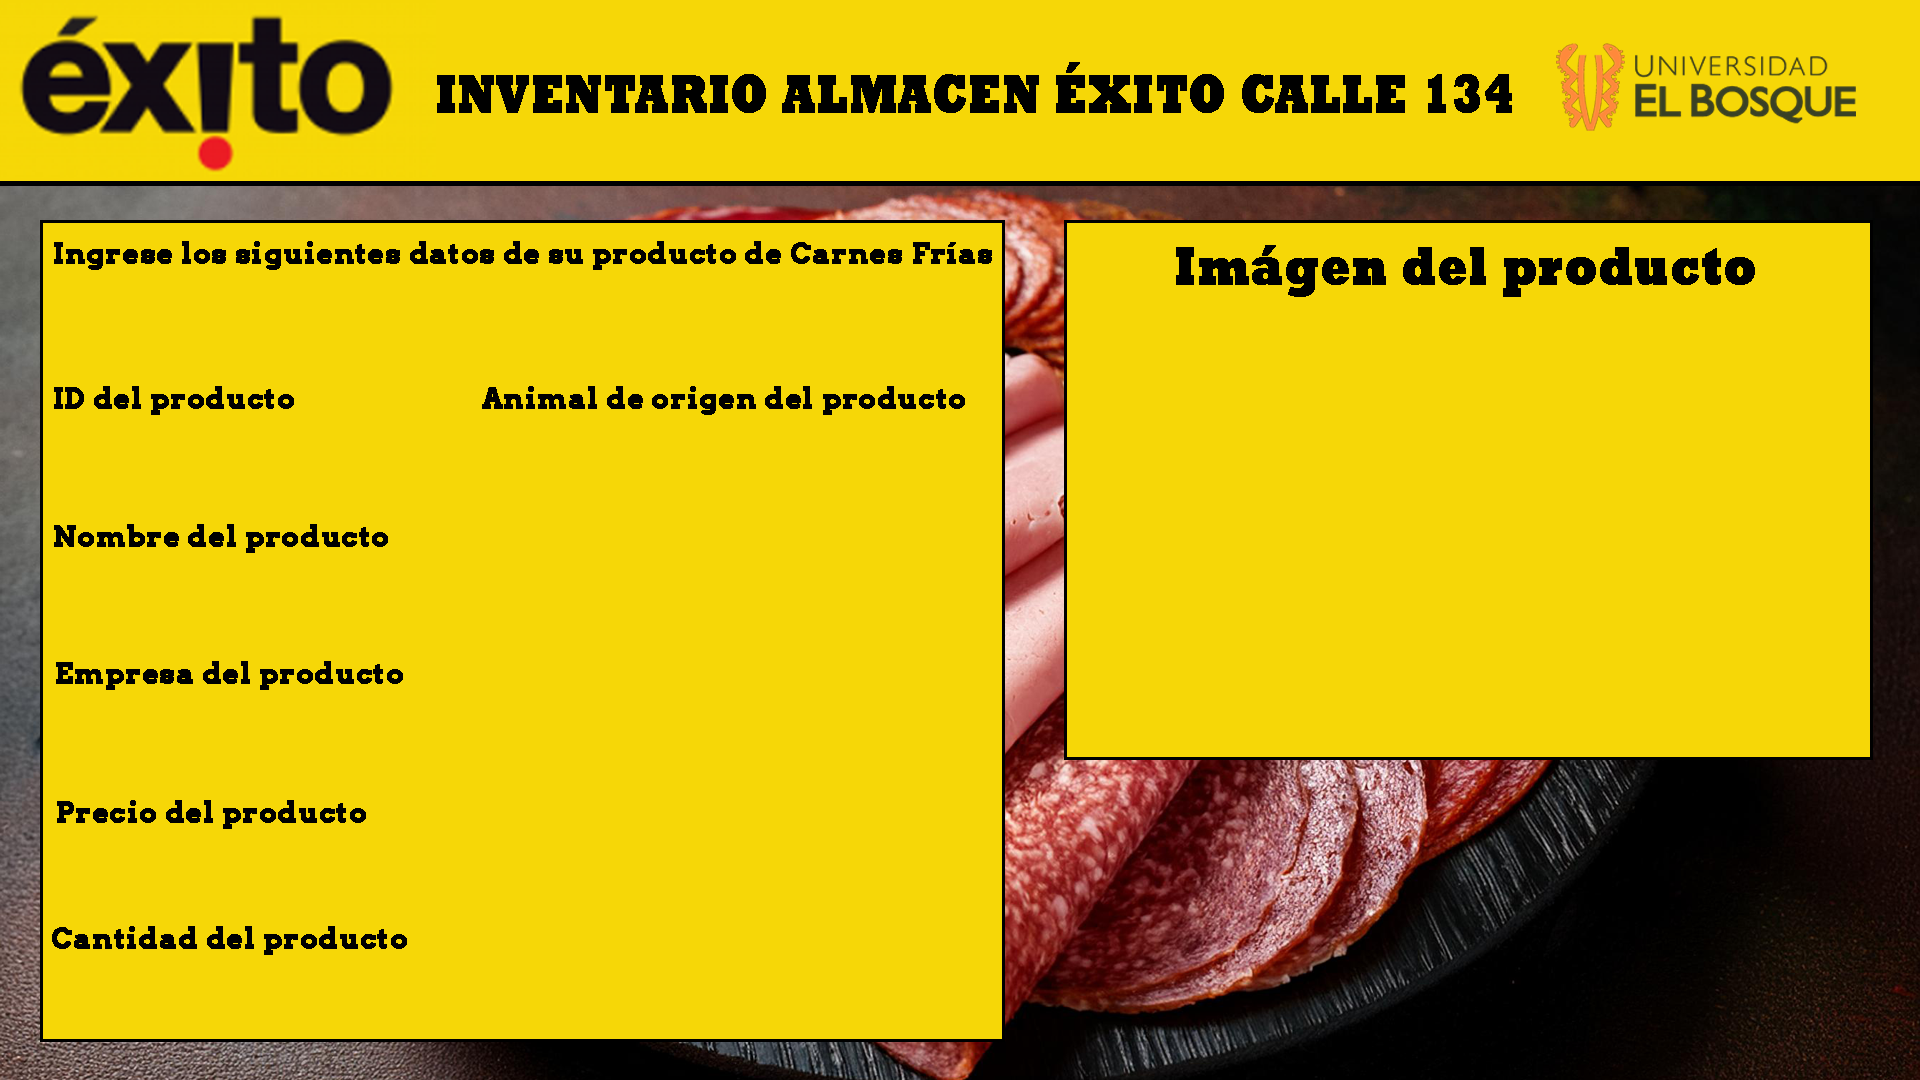
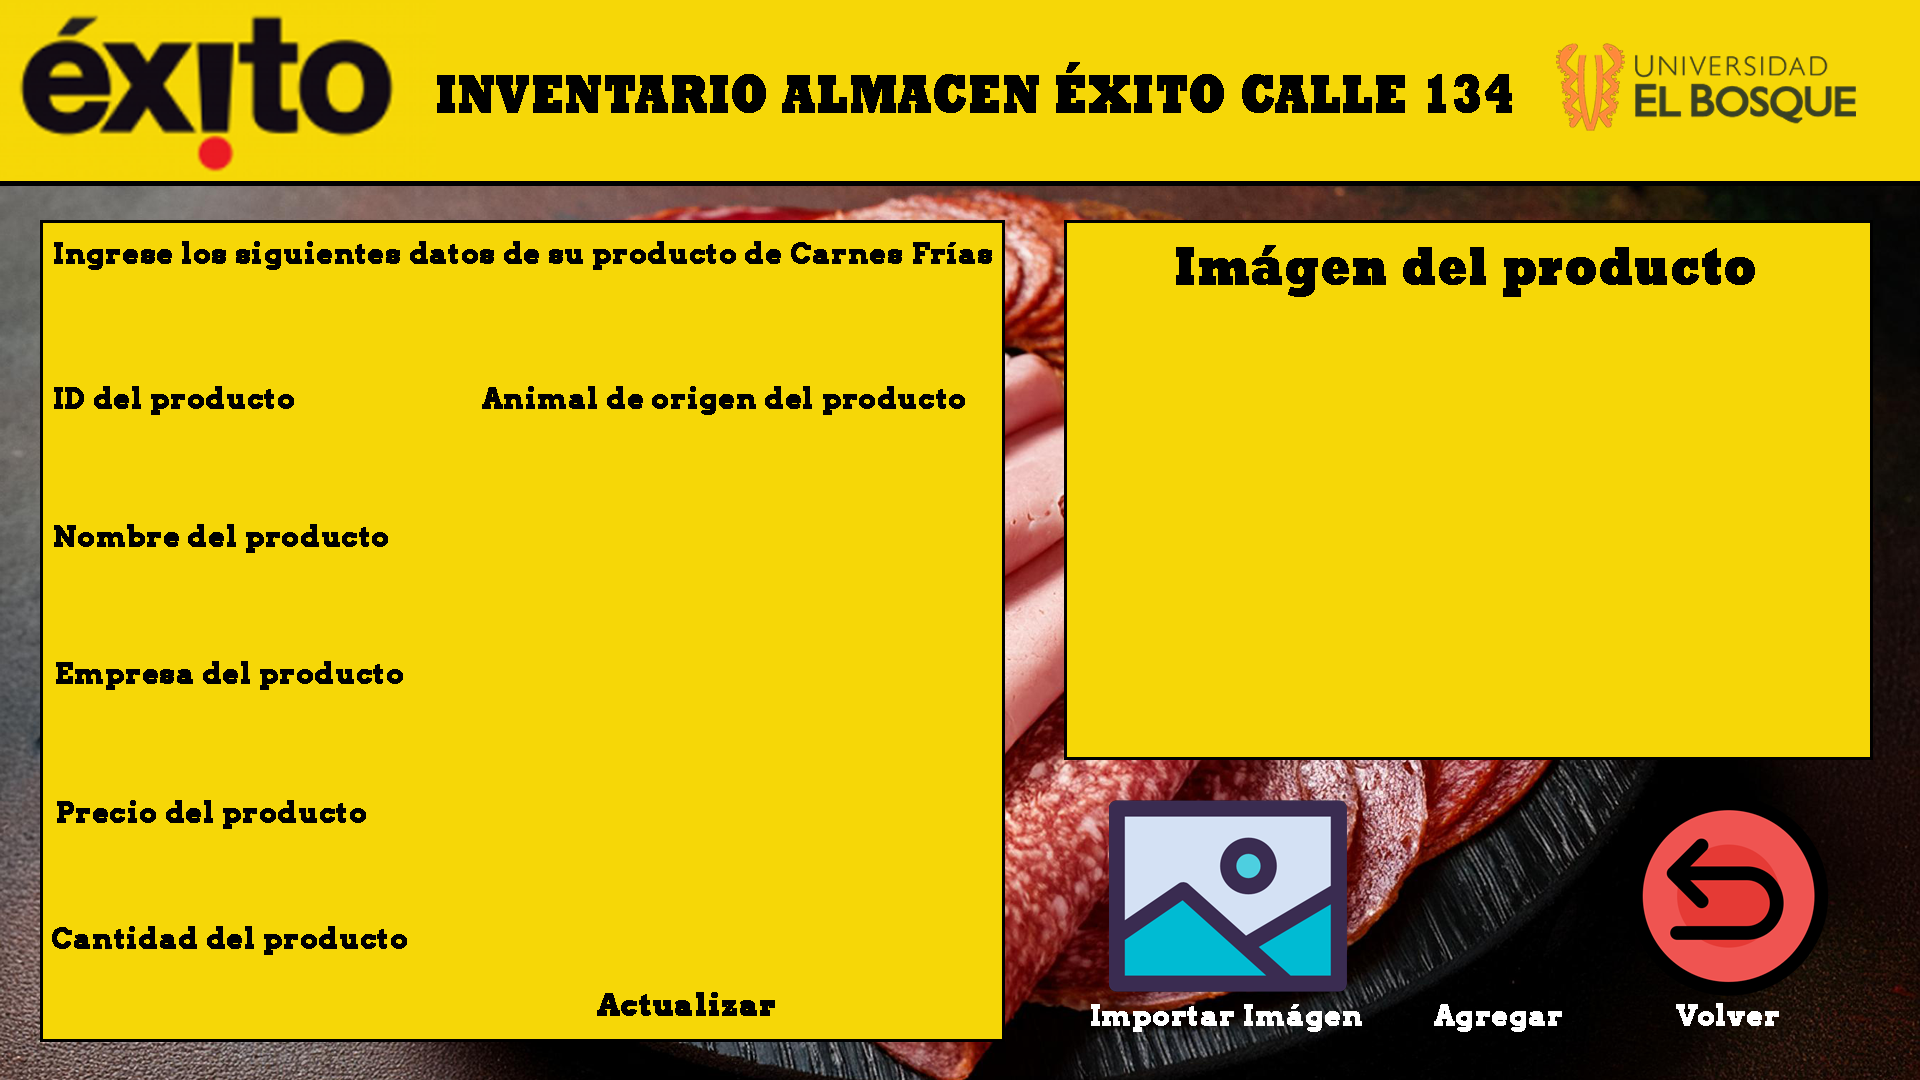
Nuevos menús, boton3es ag, imp, volv

diff --git a/Proyecto_Programacion_1/src/co/edu/unbosque/view/PanelEntrada.java b/Proyecto_Programacion_1/src/co/edu/unbosque/view/PanelEntrada.java
@@ -11,7 +11,7 @@ import javax.swing.JTextField;
 import javax.swing.border.Border;
 
 public class PanelEntrada extends JPanel {
-	JLabel imagenBackground, imagenProducto, imagenAgregarC, exportar, imagenAgregarV, imagenAgregarJ, imagenAgregarP;
+	JLabel imagenBackground, imagenProducto, imagenAgregarC, imagenAgregarV, imagenAgregarJ, imagenAgregarP;
 	JTextField numId, nombre, empresa, precio, cantidad, atributoPropio1, atributoPropio2, atributoPropio3;
 	JButton btnVolver, btnAgregar, btnJFileChooser;
 
@@ -56,37 +56,26 @@ public class PanelEntrada extends JPanel {
 		atributoPropio3.setOpaque(true);
 
 		btnVolver = new JButton("Volver");
-		btnVolver.setBounds(1095, 515, 150, 150);
+		btnVolver.setBounds(1080, 515, 138, 130);
 		btnVolver.setOpaque(true);
 		btnVolver.setActionCommand("VOLVERDEADD");
 		btnVolver.setBackground(new Color(255, 217, 47));
 		btnVolver.setBorder(border);
-		btnVolver.setVerticalTextPosition(JButton.BOTTOM);
 
 		btnAgregar = new JButton("Agregar");
-		btnAgregar.setBounds(900, 515, 150, 150);
+		btnAgregar.setBounds(930, 515, 130, 130);
 		btnAgregar.setOpaque(true);
 		btnAgregar.setActionCommand("AGREGARPRODUCTO");
 		btnAgregar.setBackground(new Color(255, 217, 47));
 		btnAgregar.setBorder(border);
-		btnAgregar.setVerticalTextPosition(JButton.BOTTOM);
 		
 		btnJFileChooser = new JButton("Importar imágen");
-		btnJFileChooser.setBounds(710, 515, 150, 150);
+		btnJFileChooser.setBounds(720, 510, 190, 135);
 		btnJFileChooser.setVisible(true);
 		btnJFileChooser.setActionCommand("IMAGEN");
 		btnJFileChooser.setBackground(new Color(255, 217, 47));
 		btnJFileChooser.setBorder(border);
-		btnJFileChooser.setVerticalTextPosition(JButton.BOTTOM);
 		
-		exportar = new JLabel();
-		ImageIcon exportarI = new ImageIcon("src/media/IMPORTAR.png");
-		Image redimensionado2 = exportarI.getImage().getScaledInstance(150, 150, Image.SCALE_SMOOTH);
-		exportar.setIcon(new ImageIcon(redimensionado2));
-		exportar.setVisible(true);
-		exportar.setBounds(710, 515, 150, 150);
-		exportar.setOpaque(false);
-
 		imagenProducto = new JLabel();
 		ImageIcon imagenImportada = new ImageIcon("src/media/VentanaExito.png");
 		Image redimensionado3 = imagenImportada.getImage().getScaledInstance(400, 200, Image.SCALE_SMOOTH);
@@ -115,14 +104,14 @@ public class PanelEntrada extends JPanel {
 		Image redimensionadoJ = imagenAgregarJu.getImage().getScaledInstance(1280, 705, Image.SCALE_SMOOTH);
 		imagenAgregarJ.setIcon(new ImageIcon(redimensionadoJ));
 		imagenAgregarJ.setVisible(false);
-		imagenAgregarJ.setBounds(0, 0, 1280, 705);
+		imagenAgregarJ.setBounds(0, 4, 1280, 705);
 		
 		imagenAgregarP = new JLabel();
 		ImageIcon imagenAgregarPa = new ImageIcon("src/media/AgregarPA.png");
 		Image redimensionadoP = imagenAgregarPa.getImage().getScaledInstance(1280, 705, Image.SCALE_SMOOTH);
 		imagenAgregarP.setIcon(new ImageIcon(redimensionadoP));
 		imagenAgregarP.setVisible(false);
-		imagenAgregarP.setBounds(-10, 0, 1280, 705);
+		imagenAgregarP.setBounds(-4, -2, 1280, 705);
 
 		add(numId);
 		add(nombre);
@@ -132,15 +121,14 @@ public class PanelEntrada extends JPanel {
 		add(atributoPropio1);
 		add(atributoPropio2);
 		add(atributoPropio3);
-		add(exportar);
-		add(btnAgregar);
-		add(btnVolver);
-		add(btnJFileChooser);
 		add(imagenProducto);
 		add(imagenAgregarC);
 		add(imagenAgregarV);
 		add(imagenAgregarJ);
 		add(imagenAgregarP);
+		add(btnAgregar);
+		add(btnVolver);
+		add(btnJFileChooser);
 	}
 
 	public JLabel getImagenBackground() {
@@ -165,14 +153,6 @@ public class PanelEntrada extends JPanel {
 
 	public void setImagenAgregarC(JLabel imagenAgregarC) {
 		this.imagenAgregarC = imagenAgregarC;
-	}
-
-	public JLabel getExportar() {
-		return exportar;
-	}
-
-	public void setExportar(JLabel exportar) {
-		this.exportar = exportar;
 	}
 
 	public JLabel getImagenAgregarV() {
@@ -286,6 +266,5 @@ public class PanelEntrada extends JPanel {
 	public void setBtnJFileChooser(JButton btnJFileChooser) {
 		this.btnJFileChooser = btnJFileChooser;
 	}
-//aaaaaaaaaaaaaaaaaaaaaaaaaaa
 	
 }
